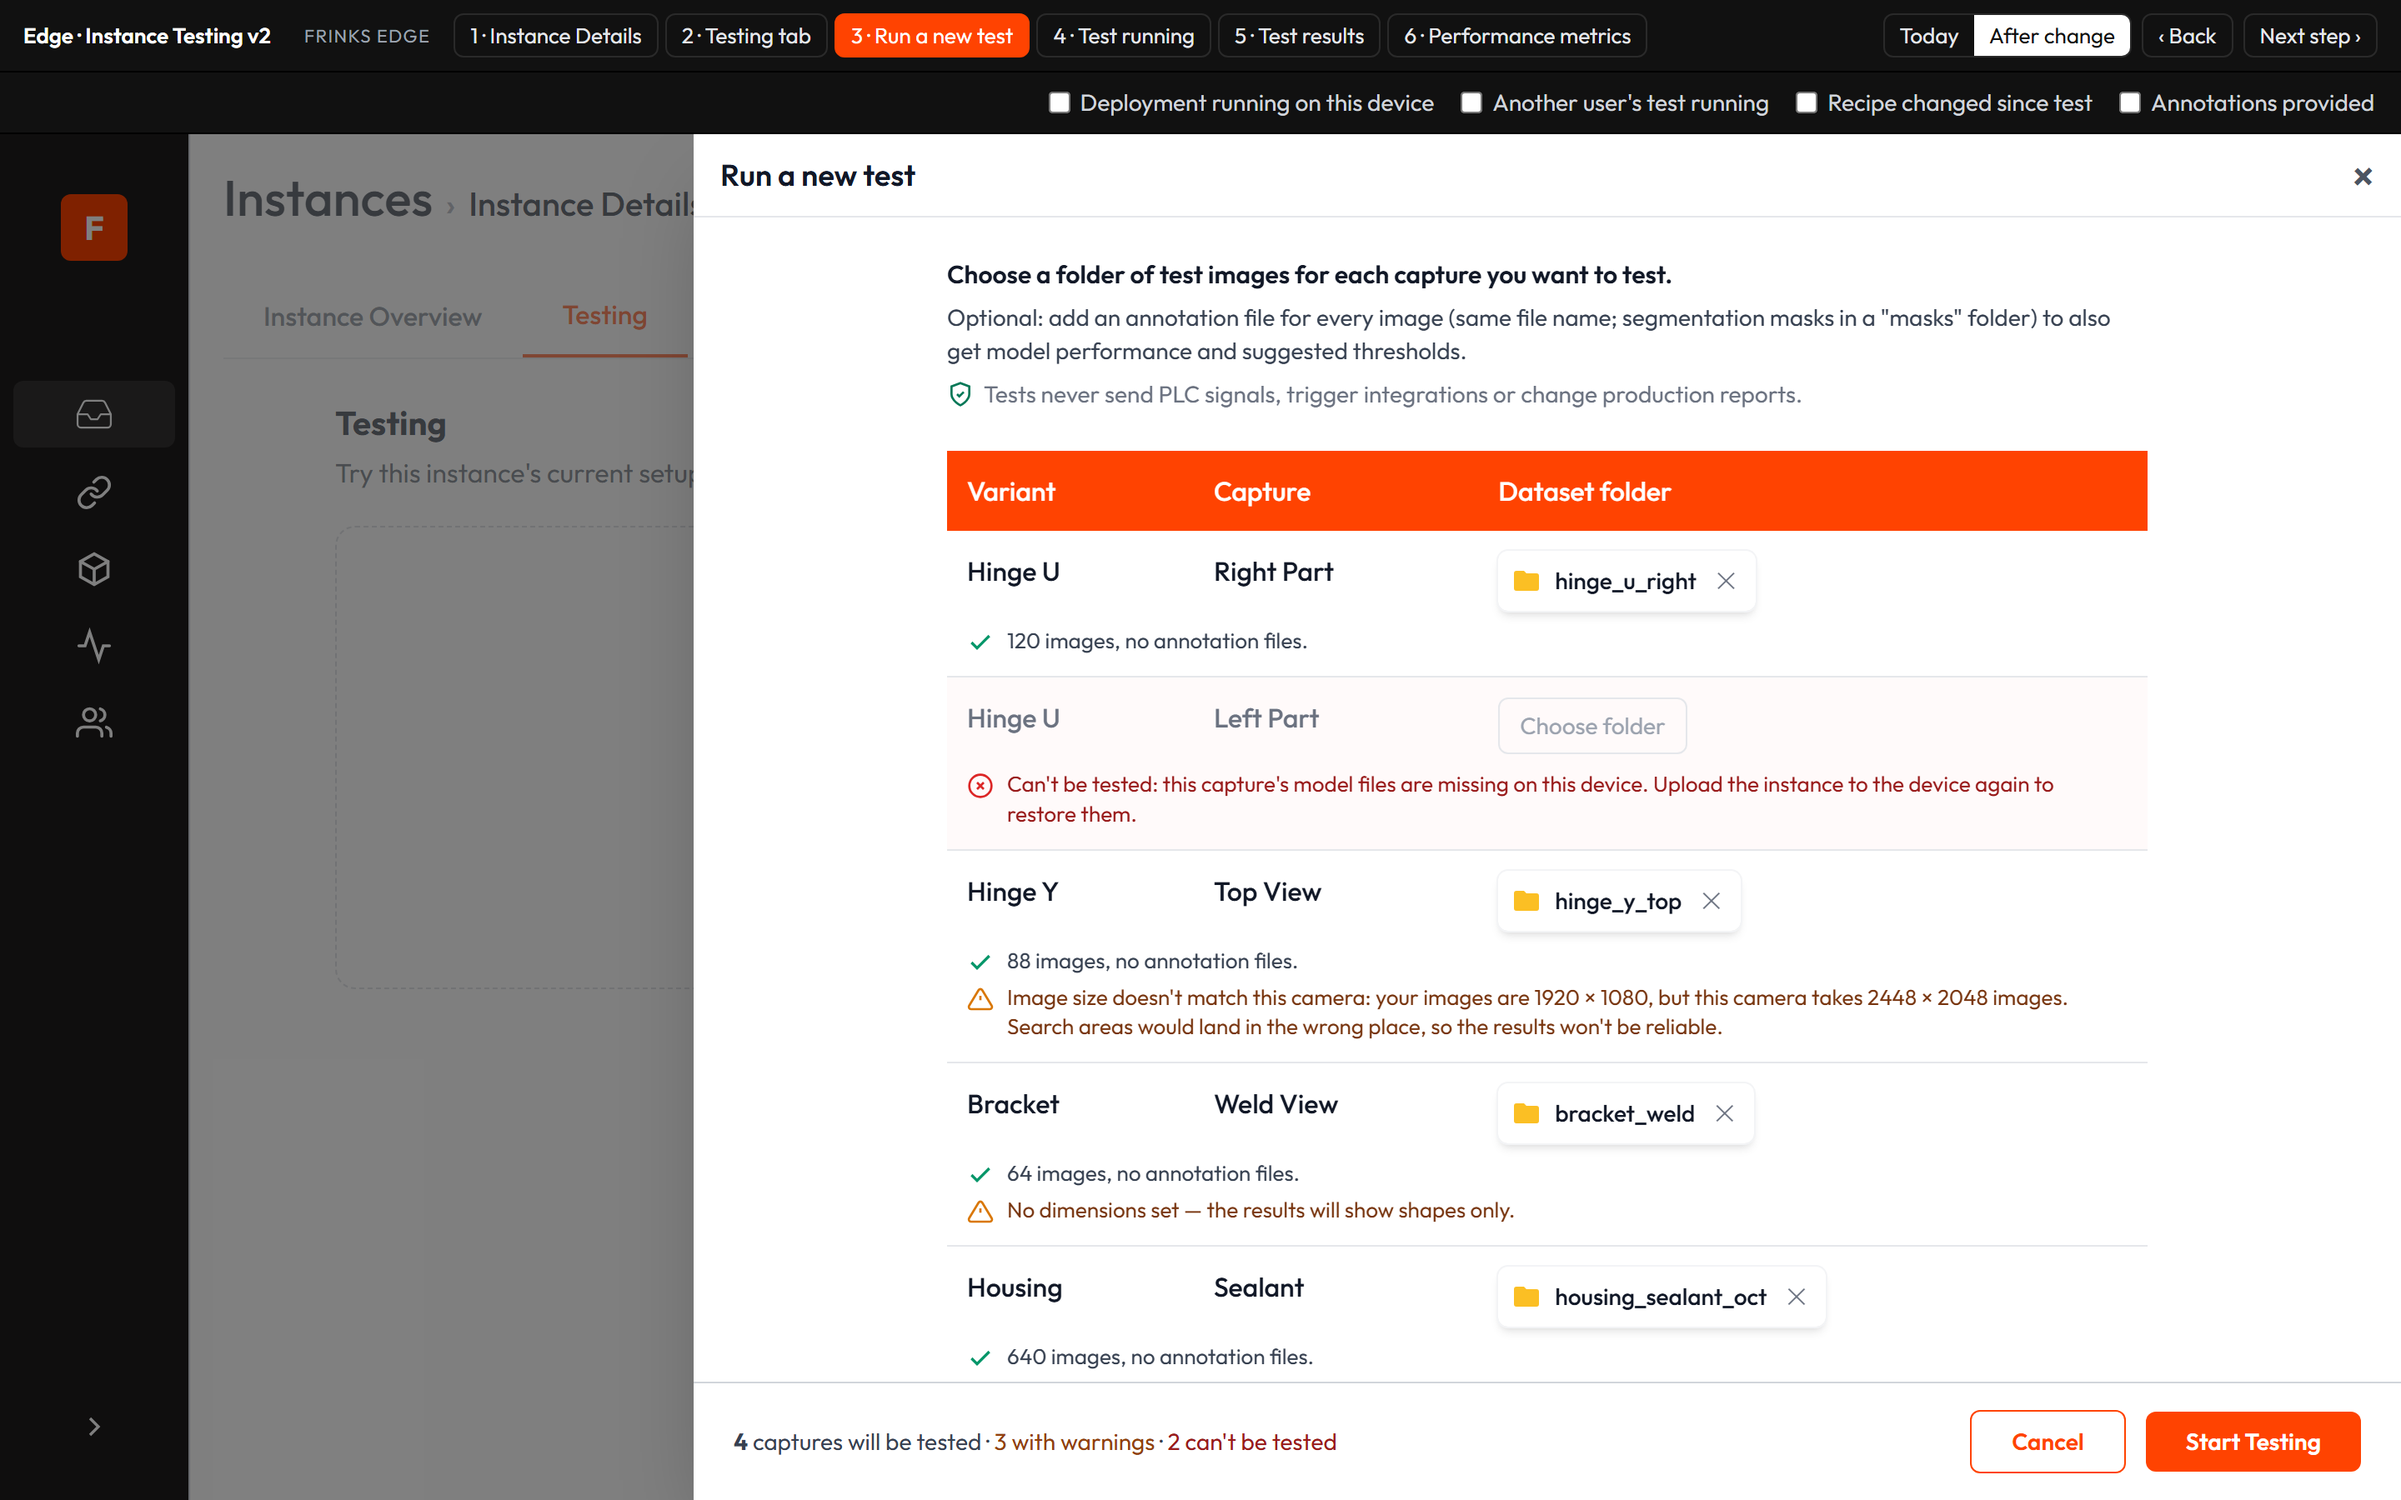
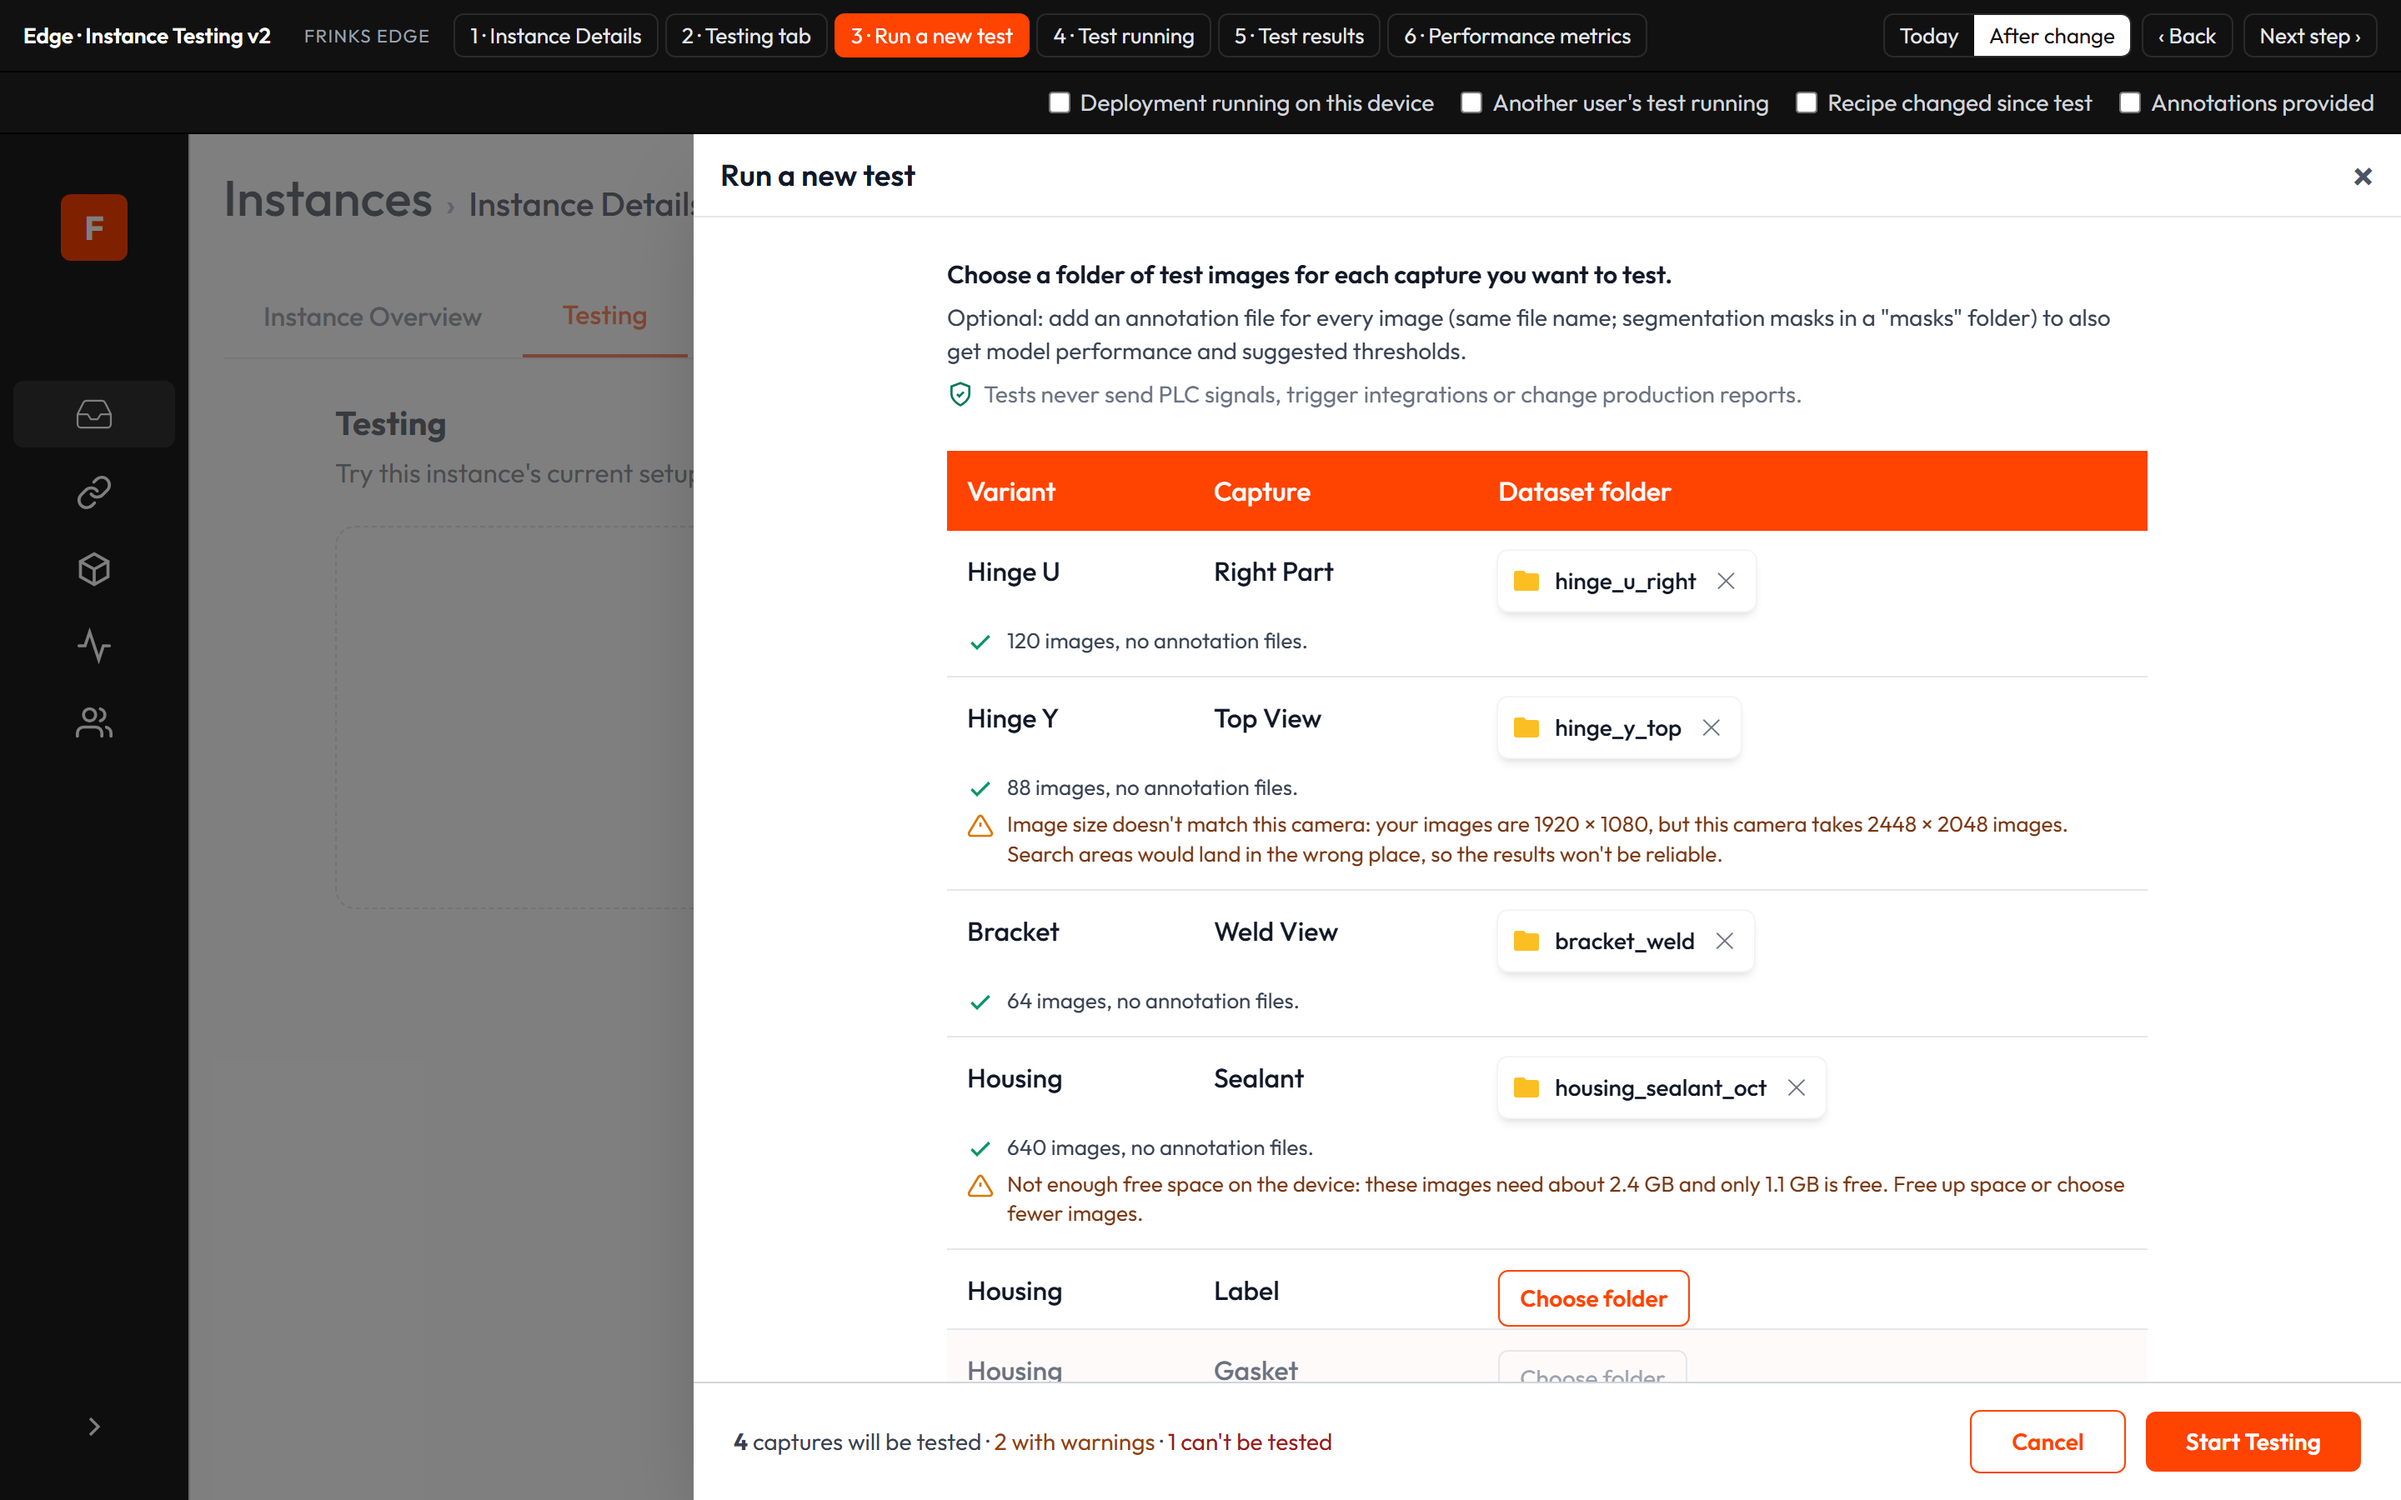
Edge Instance Testing v2: drop three Run drawer checks and the empty-state button
Removes the missing-model-files error, the Shape Extractor no-dimensions
warning and the over-500-images warning from the Run drawer, and the
centred "Run a new test" button from the empty Testing tab.

diff --git a/after.html b/after.html
@@ -189,13 +189,11 @@ const pill = (st, extra = '') => `<span class="inline-flex items-center whitespa
 // Run drawer rows. warnC = config warnings (always shown); warnF = folder warnings (only once a folder is chosen)
 const ROWS = [
   { id: 'hu', v: 'Hinge U', c: 'Right Part', pick: 'hinge_u_right', imgs: 120, annotated: true },
-  { id: 'hul', v: 'Hinge U', c: 'Left Part', err: "Can't be tested: this capture's model files are missing on this device. Upload the instance to the device again to restore them." },
   { id: 'hy', v: 'Hinge Y', c: 'Top View', pick: 'hinge_y_top', imgs: 88,
     warnF: ["Image size doesn't match this camera: your images are 1920 × 1080, but this camera takes 2448 × 2048 images. Search areas would land in the wrong place, so the results won't be reliable."] },
-  { id: 'br', v: 'Bracket', c: 'Weld View', pick: 'bracket_weld', imgs: 64, annotated: true, warnC: ['No dimensions set — the results will show shapes only.'] },
+  { id: 'br', v: 'Bracket', c: 'Weld View', pick: 'bracket_weld', imgs: 64, annotated: true },
   { id: 'hs', v: 'Housing', c: 'Sealant', pick: 'housing_sealant_oct', imgs: 640,
-    warnF: ['640 images is more than the suggested 500 per capture. The test will take longer; a smaller folder gives results sooner.',
-      'Not enough free space on the device: these images need about 2.4 GB and only 1.1 GB is free. Free up space or choose fewer images.'] },
+    warnF: ['Not enough free space on the device: these images need about 2.4 GB and only 1.1 GB is free. Free up space or choose fewer images.'] },
   { id: 'hl', v: 'Housing', c: 'Label', pick: 'housing_label', imgs: 120, annotated: true },
   { id: 'hg', v: 'Housing', c: 'Gasket', err: "Can't be tested: bead inspection isn't set up for this capture yet (bead width and gap rules are missing).", link: 'Open Edit Module Configurations' },
 ];
@@ -430,7 +428,6 @@ function historyCard() {
       <svg width="48" height="48" viewBox="0 0 24 24" fill="none" stroke="#9ca3af" stroke-width="1.3"><path d="M9 3h6M10 3v6l-5 9a2 2 0 0 0 1.8 3h10.4a2 2 0 0 0 1.8-3l-5-9V3"/><path d="M7.5 14h9"/></svg>
       <h2 class="text-lg font-semibold text-gray-800">No tests yet</h2>
       <p class="max-w-md text-sm text-gray-600">Run a test to check this instance's setup on saved images before using it on the line. Tests don't affect the line.</p>
-      <button data-act="openDrawer" class="mt-1 rounded-md bg-f-primary px-5 py-2 text-sm font-semibold text-white hover:bg-f-primary/90">Run a new test</button>
     </section>`;
   }
   return `<section>
